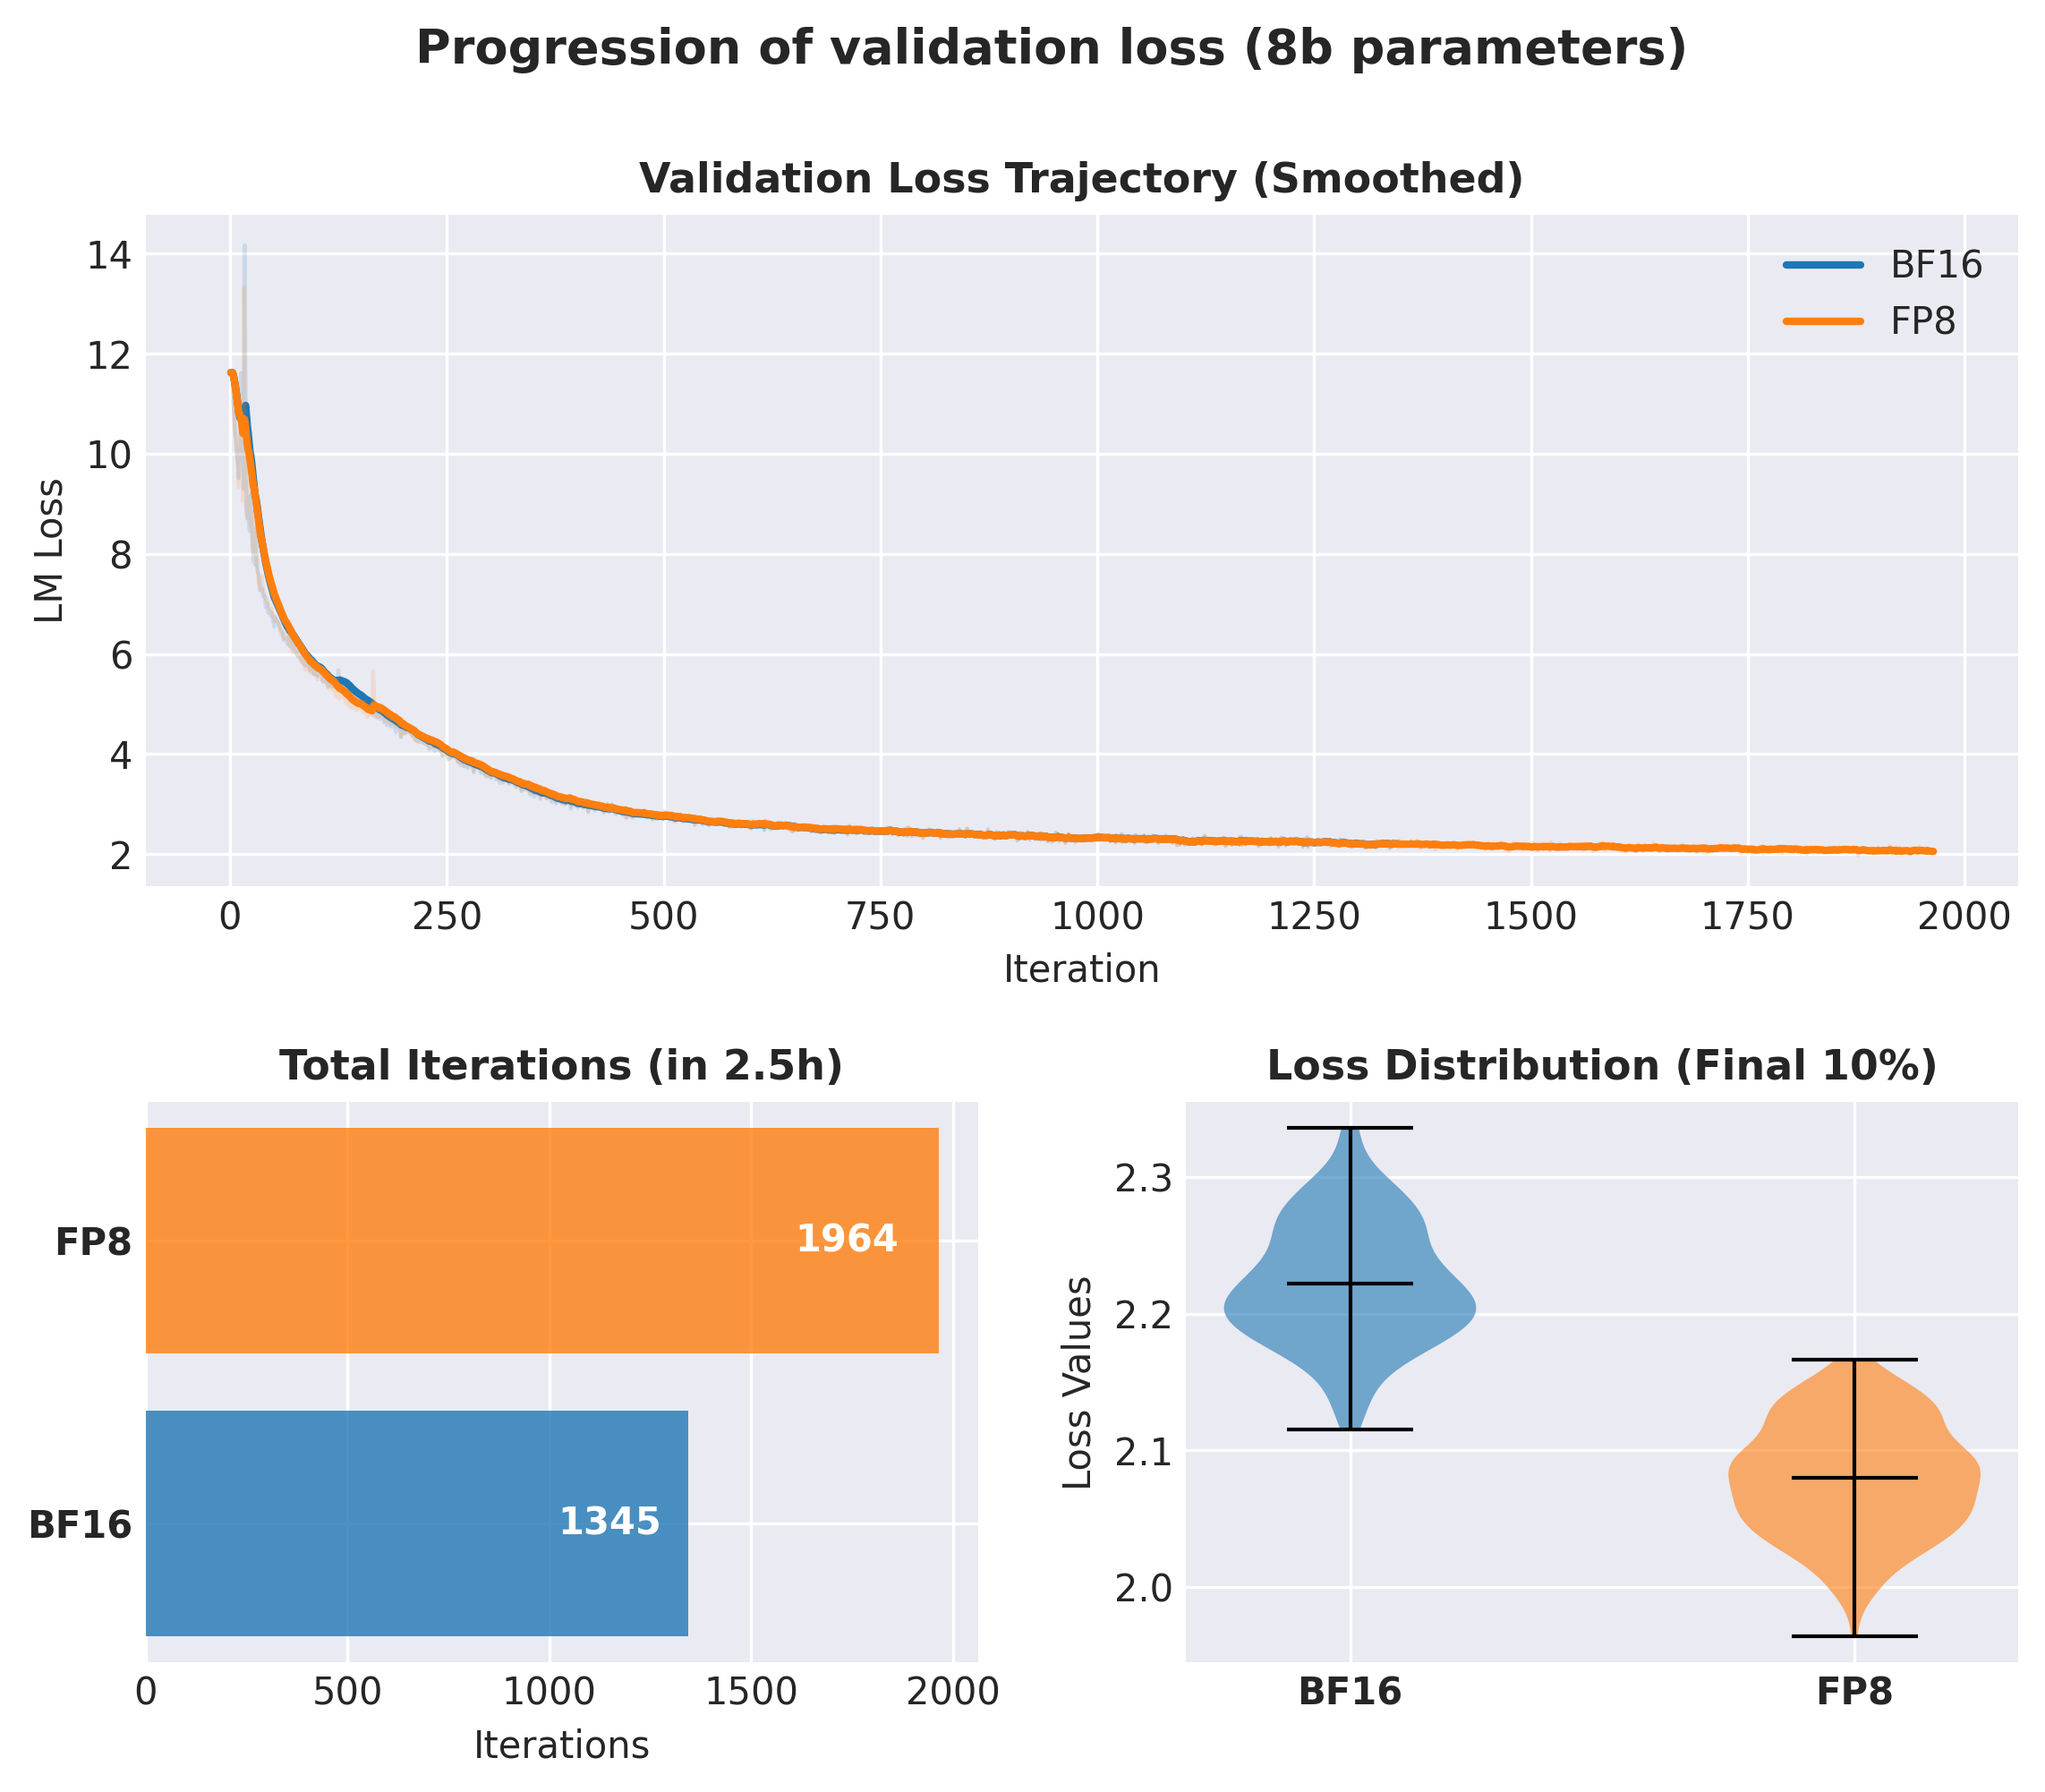
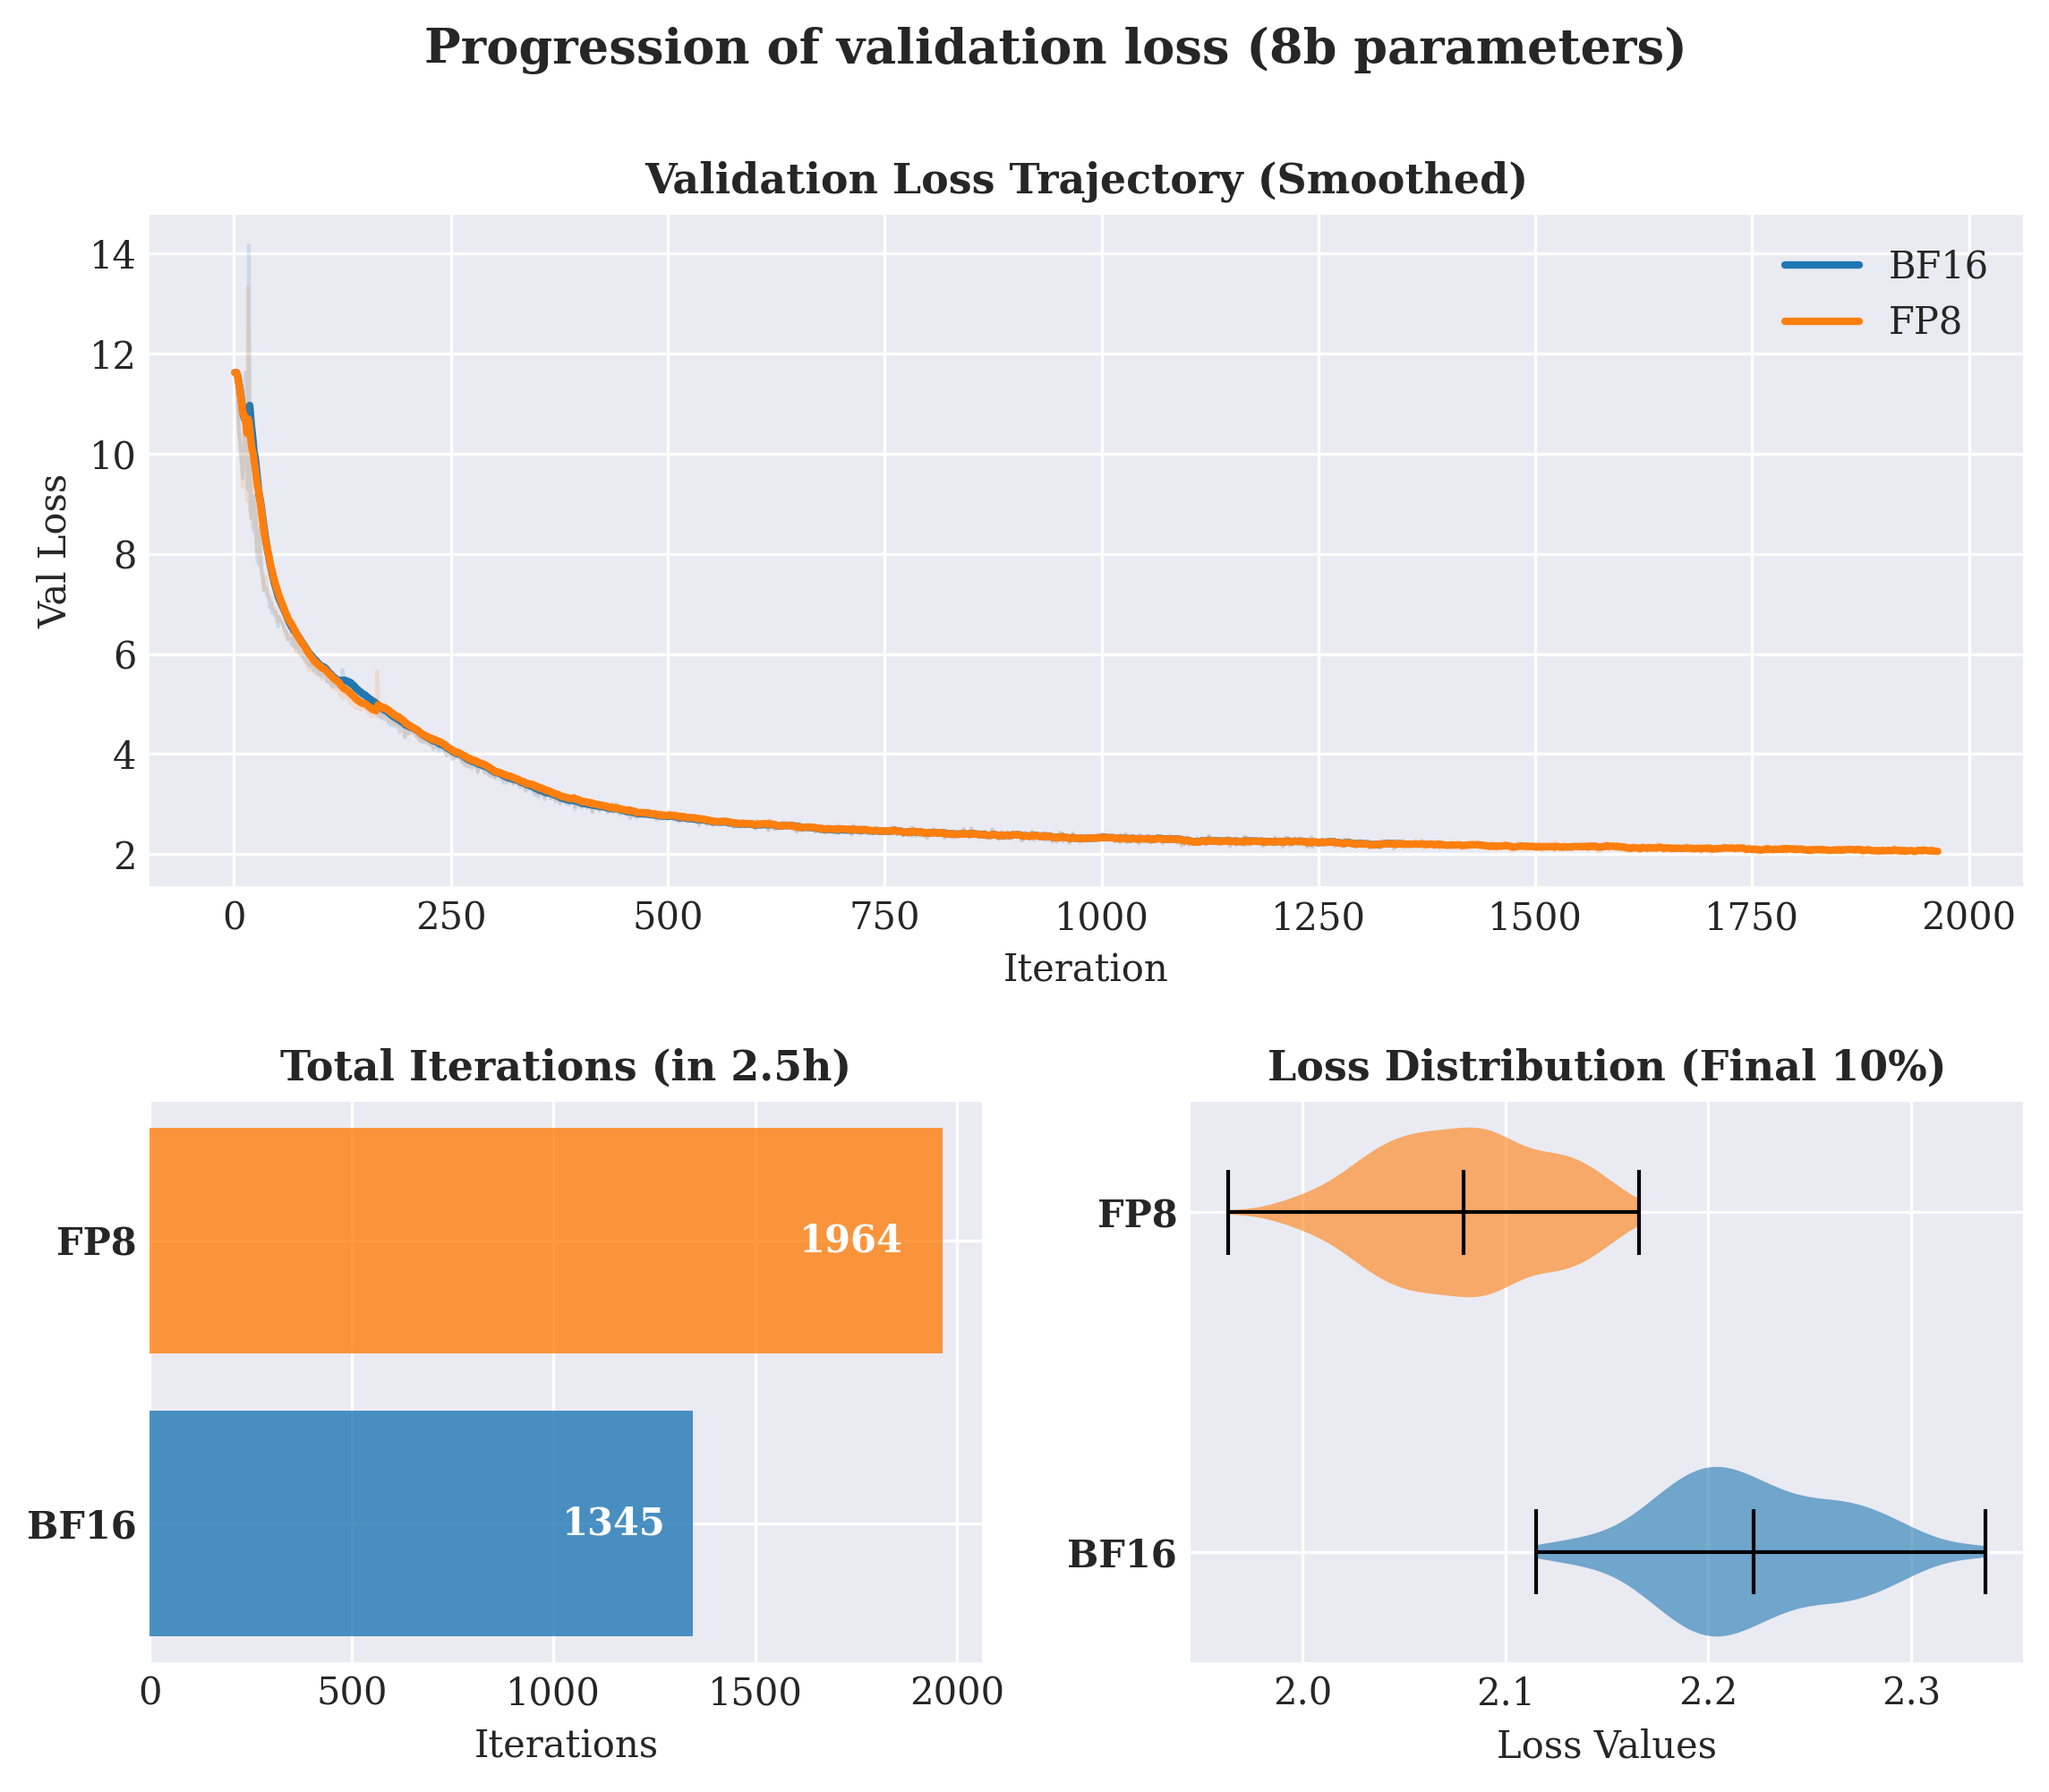
change some styling

diff --git a/plot/loss.py b/plot/loss.py
@@ -87,7 +87,7 @@ def plot_comparison(files: list[Path], title: str, output_file: Path):
     # Top Panel
     ax_curve.set_title("Validation Loss Trajectory (Smoothed)", fontweight="bold", fontsize=TITLE_FONT_SIZE)
     ax_curve.set_xlabel("Iteration", fontsize=LABEL_FONT_SIZE)
-    ax_curve.set_ylabel("LM Loss", fontsize=LABEL_FONT_SIZE)
+    ax_curve.set_ylabel("Val Loss", fontsize=LABEL_FONT_SIZE)
     ax_curve.legend(loc="upper right")
 
     # Bottom Left Panel
@@ -104,7 +104,7 @@ def plot_comparison(files: list[Path], title: str, output_file: Path):
                     f'{int(width)}', ha='right', va='center', color='white', fontweight='bold')
 
     # Bottom Right Panel
-    parts = ax_violin.violinplot(final_losses, showmeans=True, showextrema=True)
+    parts = ax_violin.violinplot(final_losses, showmeans=True, showextrema=True, orientation="horizontal")
     for pc, color in zip(parts['bodies'], run_colors):
         pc.set_facecolor(color)
         pc.set_alpha(0.6)
@@ -113,10 +113,10 @@ def plot_comparison(files: list[Path], title: str, output_file: Path):
         vp.set_edgecolor('black')
         vp.set_linewidth(1)
 
-    ax_violin.set_xticks(np.arange(1, len(run_names) + 1))
-    ax_violin.set_xticklabels(run_names, fontweight="bold")
+    ax_violin.set_yticks(np.arange(1, len(run_names) + 1))
+    ax_violin.set_yticklabels(run_names, fontweight="bold")
     ax_violin.set_title("Loss Distribution (Final 10%)", fontweight="bold", fontsize=TITLE_FONT_SIZE)
-    ax_violin.set_ylabel("Loss Values", fontsize=LABEL_FONT_SIZE)
+    ax_violin.set_xlabel("Loss Values", fontsize=LABEL_FONT_SIZE)
 
     if title:
         fig.suptitle(title, fontsize=TITLE_FONT_SIZE + 2, fontweight="bold", y=0.98)
